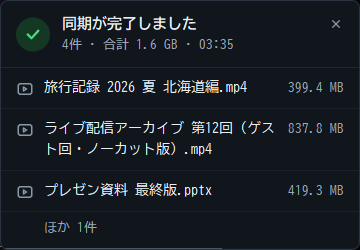
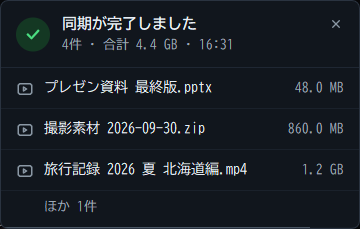
FastMirror 紹介ページに robocopy との速度比較を追加し、速度の説明とスクリーンショットを v0.5.1 の実測に更新

diff --git a/fastmirror/index.html b/fastmirror/index.html
@@ -194,9 +194,20 @@
     }
     .links a:hover { text-decoration: underline; }
     .muted { color: var(--muted); }
+    .speed-head { padding: 16px 16px 6px; }
+    .speed-head h2 { margin: 0 0 6px 0; font-size: 16px; }
+    .speed-lead { margin: 0; font-size: 13px; color: var(--muted); }
+    .speed-wrap { overflow-x: auto; }
+    .speed-table th, .speed-table td { padding: 9px 12px; font-size: 13px; white-space: nowrap; }
+    .speed-table .num { text-align: right; font-variant-numeric: tabular-nums; }
+    .speed-table td.fm { color: var(--accent); font-weight: 700; }
+    .speed-note { margin: 0; padding: 10px 16px 14px; font-size: 12px; line-height: 1.7; color: #99a8c6; }
     @media (max-width: 720px) {
       th:nth-child(5), td:nth-child(5), th:nth-child(6), td:nth-child(6) {
         display: none;
+      }
+      .speed-table th:nth-child(n), .speed-table td:nth-child(n) {
+        display: table-cell;
       }
       h1 { font-size: 24px; }
       .hero-logo { width: 30px; height: 30px; }
@@ -221,14 +232,14 @@
           <span class="sub-line">インストール不要の exe 1つ（約8MB）で動き、タスクトレイに常駐している間は、変更があったとき以外 CPU 使用率はほぼ0%です。</span>
         </p>
         <p>
-          <span class="sub-line">転送エンジンを徹底的に最適化し、同一条件の計測では某老舗コピーソフト比 約95.5%の<strong>転送性能</strong>を記録しました。</span>
+          <span class="sub-line">NVMe SSD どうしの実測で、8GB のファイルを<strong>約 3,500MB/s</strong> でコピー。Windows 標準の robocopy（約 2,800MB/s）より約 1.3 倍速く、たくさんのファイルの同期では標準の robocopy の 2〜4 倍、並列コピー（/MT:8）の約 9 割〜同等の速さです。</span>
           <span class="sub-line">作成・更新・削除だけでなくリネームにも追従し、リネーム後に同期先へ残った古い名前の重複ファイルも自動で整理します。</span>
         </p>
         <p>
           <span class="sub-line">v0.5.0 で画面を一新し、同期中のファイル・残り時間・速度や<strong>同期の履歴</strong>がひと目でわかるようになりました。同期が終わると画面右下に<strong>完了通知</strong>が出ます。</span>
           <span class="sub-line">Google Drive / GWS 向けの最適化（一時ファイルの除外・1日750GBの上限ガード・自動再試行）と、自動アップデートにも対応しています。</span>
         </p>
-        <p class="sub-note">※ 転送性能は、ベリファイ無効・同一データセットでの計測結果です。</p>
+        <p class="sub-note">※ 速度は v0.5.1 の実アプリでの実測値です。条件と詳しい結果は下の「robocopy との速度比較」をご覧ください。</p>
       </div>      <div class="feature-wrap">
         <button
           id="feature-toggle-btn"
@@ -245,6 +256,42 @@
           <div id="feature-sections"></div>
         </div>
       </div>
+    </section>
+
+    <section class="card speed-card">
+      <div class="speed-head">
+        <h2>robocopy との速度比較（v0.5.1）</h2>
+        <p class="speed-lead">同じ PC・同じデータで、Windows 標準のコピーコマンド robocopy と比べた結果です。単位は MB/s（大きいほど速い）。</p>
+      </div>
+      <div class="speed-wrap">
+        <table class="speed-table">
+          <thead>
+            <tr>
+              <th>コピー元 → コピー先</th>
+              <th>データ</th>
+              <th class="num">FastMirror</th>
+              <th class="num">FastMirror<br />（整合性チェックあり）</th>
+              <th class="num">robocopy</th>
+              <th class="num">robocopy /MT:8<br />（8 並列）</th>
+            </tr>
+          </thead>
+          <tbody>
+            <tr><td>NVMe → NVMe</td><td>8GB のファイル 1 本</td><td class="num fm">3,509</td><td class="num">2,643</td><td class="num">2,760</td><td class="num">2,591</td></tr>
+            <tr><td>NVMe → NVMe</td><td>1MB × 4,000 本</td><td class="num fm">6,907</td><td class="num">4,425</td><td class="num">1,742</td><td class="num">7,464</td></tr>
+            <tr><td>NVMe → NVMe</td><td>混在 5,422 本（3.1GB）</td><td class="num fm">4,498</td><td class="num">3,608</td><td class="num">1,592</td><td class="num">4,601</td></tr>
+            <tr><td>NVMe → NVMe</td><td>32KB × 20,000 本</td><td class="num fm">328</td><td class="num">329</td><td class="num">165</td><td class="num">369</td></tr>
+            <tr><td>NVMe → HDD</td><td>4GB のファイル 1 本</td><td class="num fm">195</td><td class="num">195</td><td class="num">189</td><td class="num">190</td></tr>
+            <tr><td>HDD → HDD</td><td>4GB のファイル 1 本</td><td class="num fm">174</td><td class="num">167</td><td class="num">171</td><td class="num">171</td></tr>
+            <tr><td>HDD → HDD</td><td>混在 5,422 本（3.1GB）</td><td class="num fm">48</td><td class="num">49</td><td class="num">50</td><td class="num">54</td></tr>
+            <tr><td>Google ドライブ → NVMe</td><td>動画 15 本（6.2GB）</td><td class="num fm">1,296</td><td class="num">1,312</td><td class="num">838</td><td class="num">1,254</td></tr>
+          </tbody>
+        </table>
+      </div>
+      <p class="speed-note">
+        計測環境: Core i7-13700KF・メモリ 64GB・Windows 11 Pro（Microsoft Defender 有効）。NVMe は WD_BLACK SN770（1TB・2TB）、HDD は WD Blue WD80EAZZ（8TB）2 台、Google ドライブはパソコン版 Google ドライブ（ローカルにキャッシュ済みのファイル）。<br />
+        FastMirror は監視を開始してから同期が完了するまで、robocopy はコマンドの開始から終了までの時間で計算しています。毎回コピー先を空にし、実行する順番を入れ替えて計測しました。NVMe → NVMe は 3 回の中央値、HDD と Google ドライブは 1 回の値です。混在は 64MB × 20 本・4MB × 400 本・64KB × 5,000 本です。<br />
+        速さはパソコンやドライブ、ファイルの構成によって変わります。HDD への書き込みは、Windows のキャッシュに入った時点の速さを含みます。
+      </p>
     </section>
 
     <section class="card">
